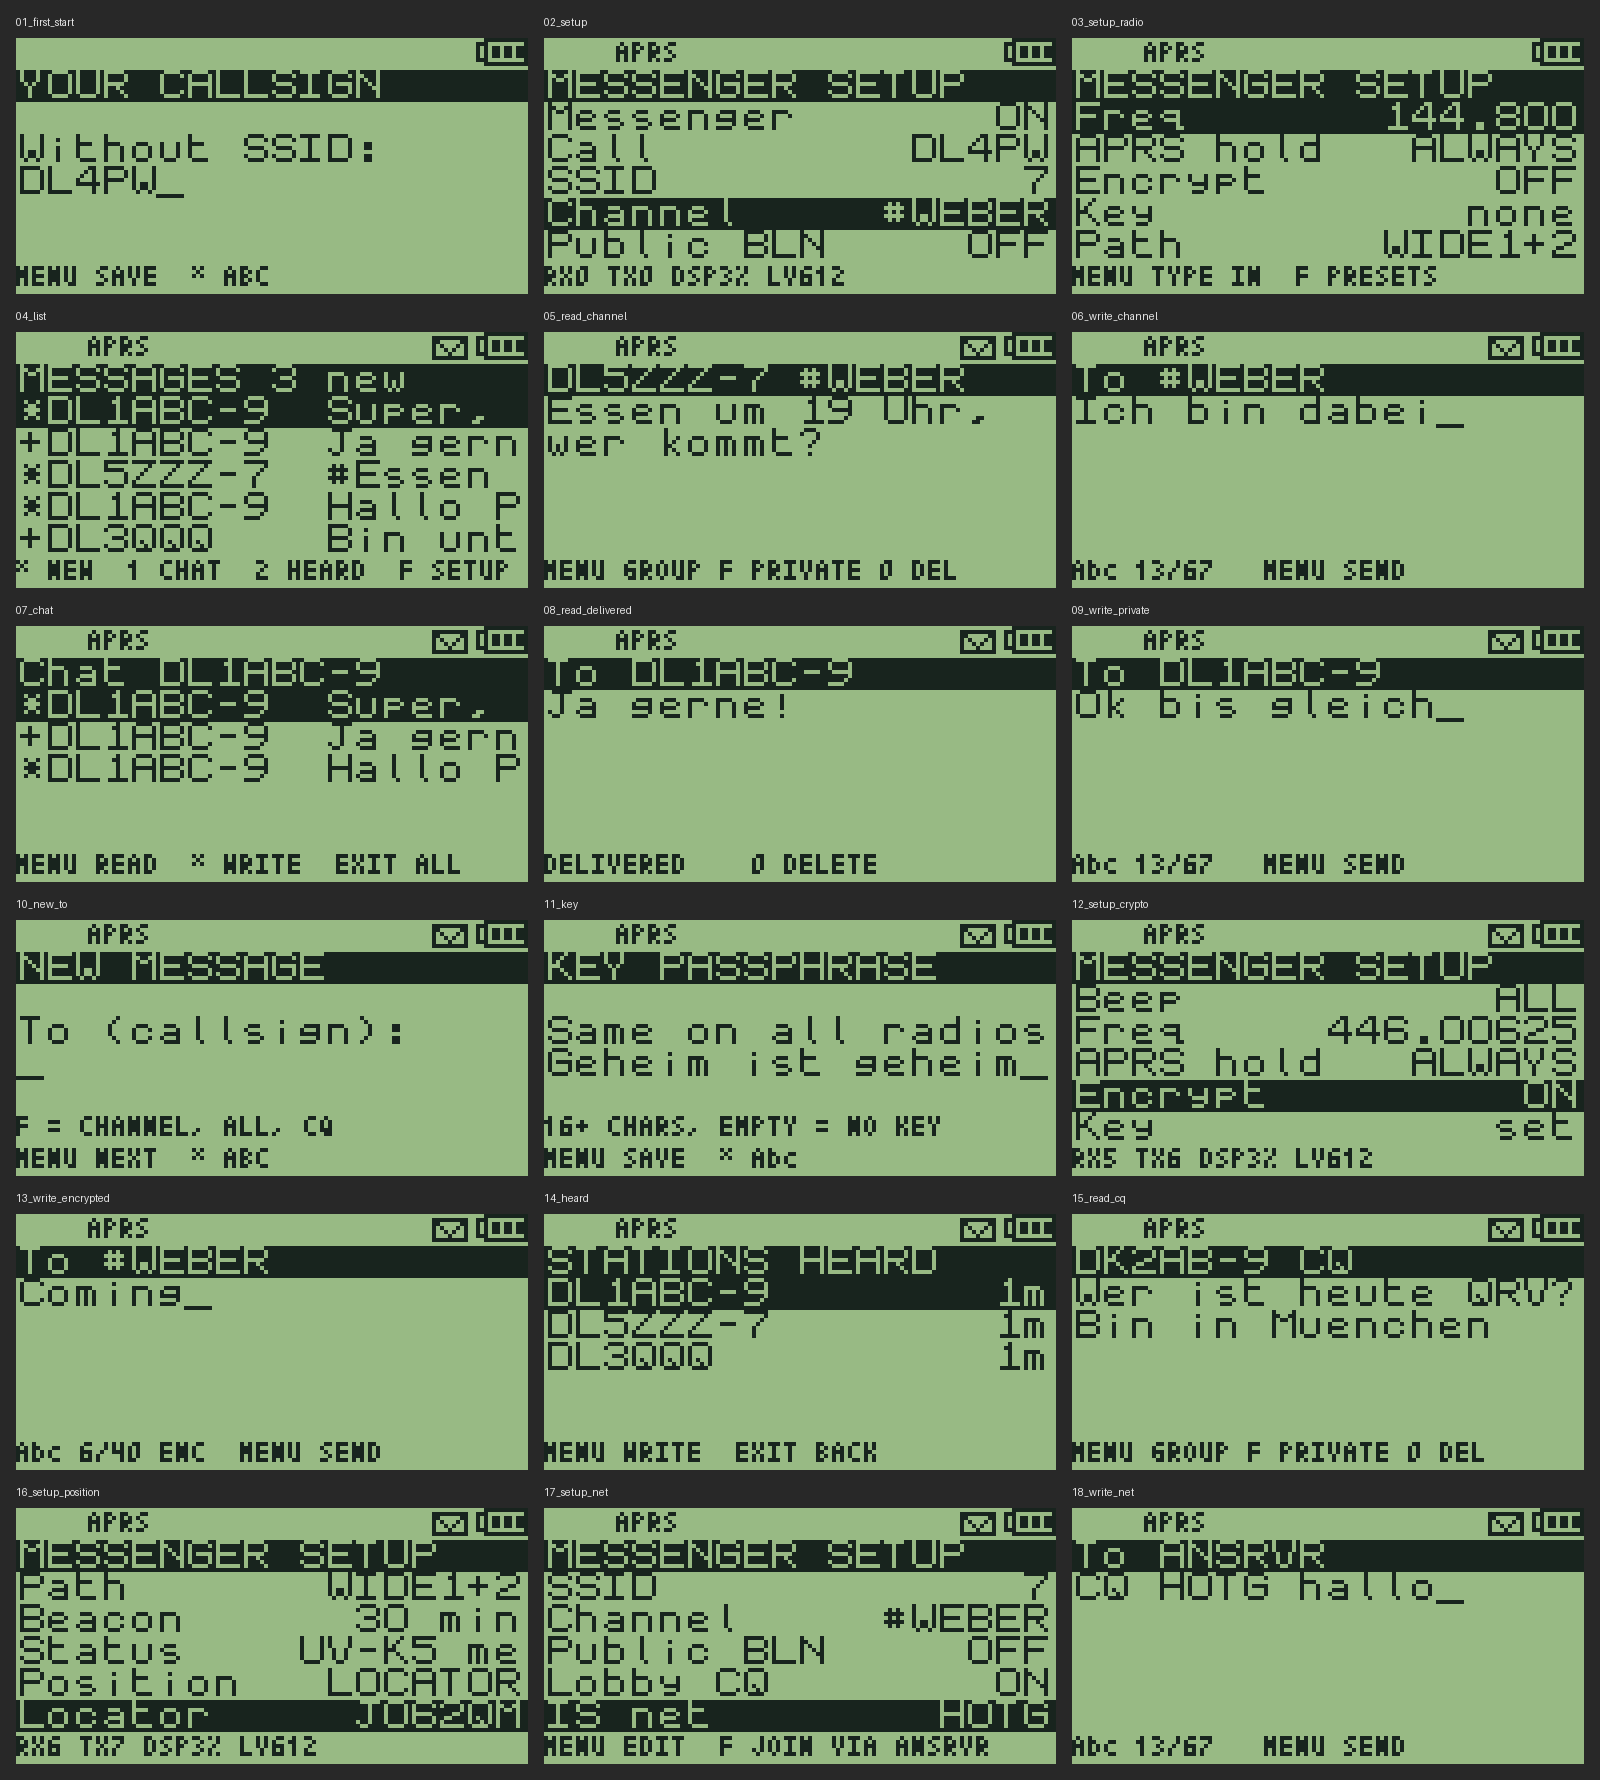
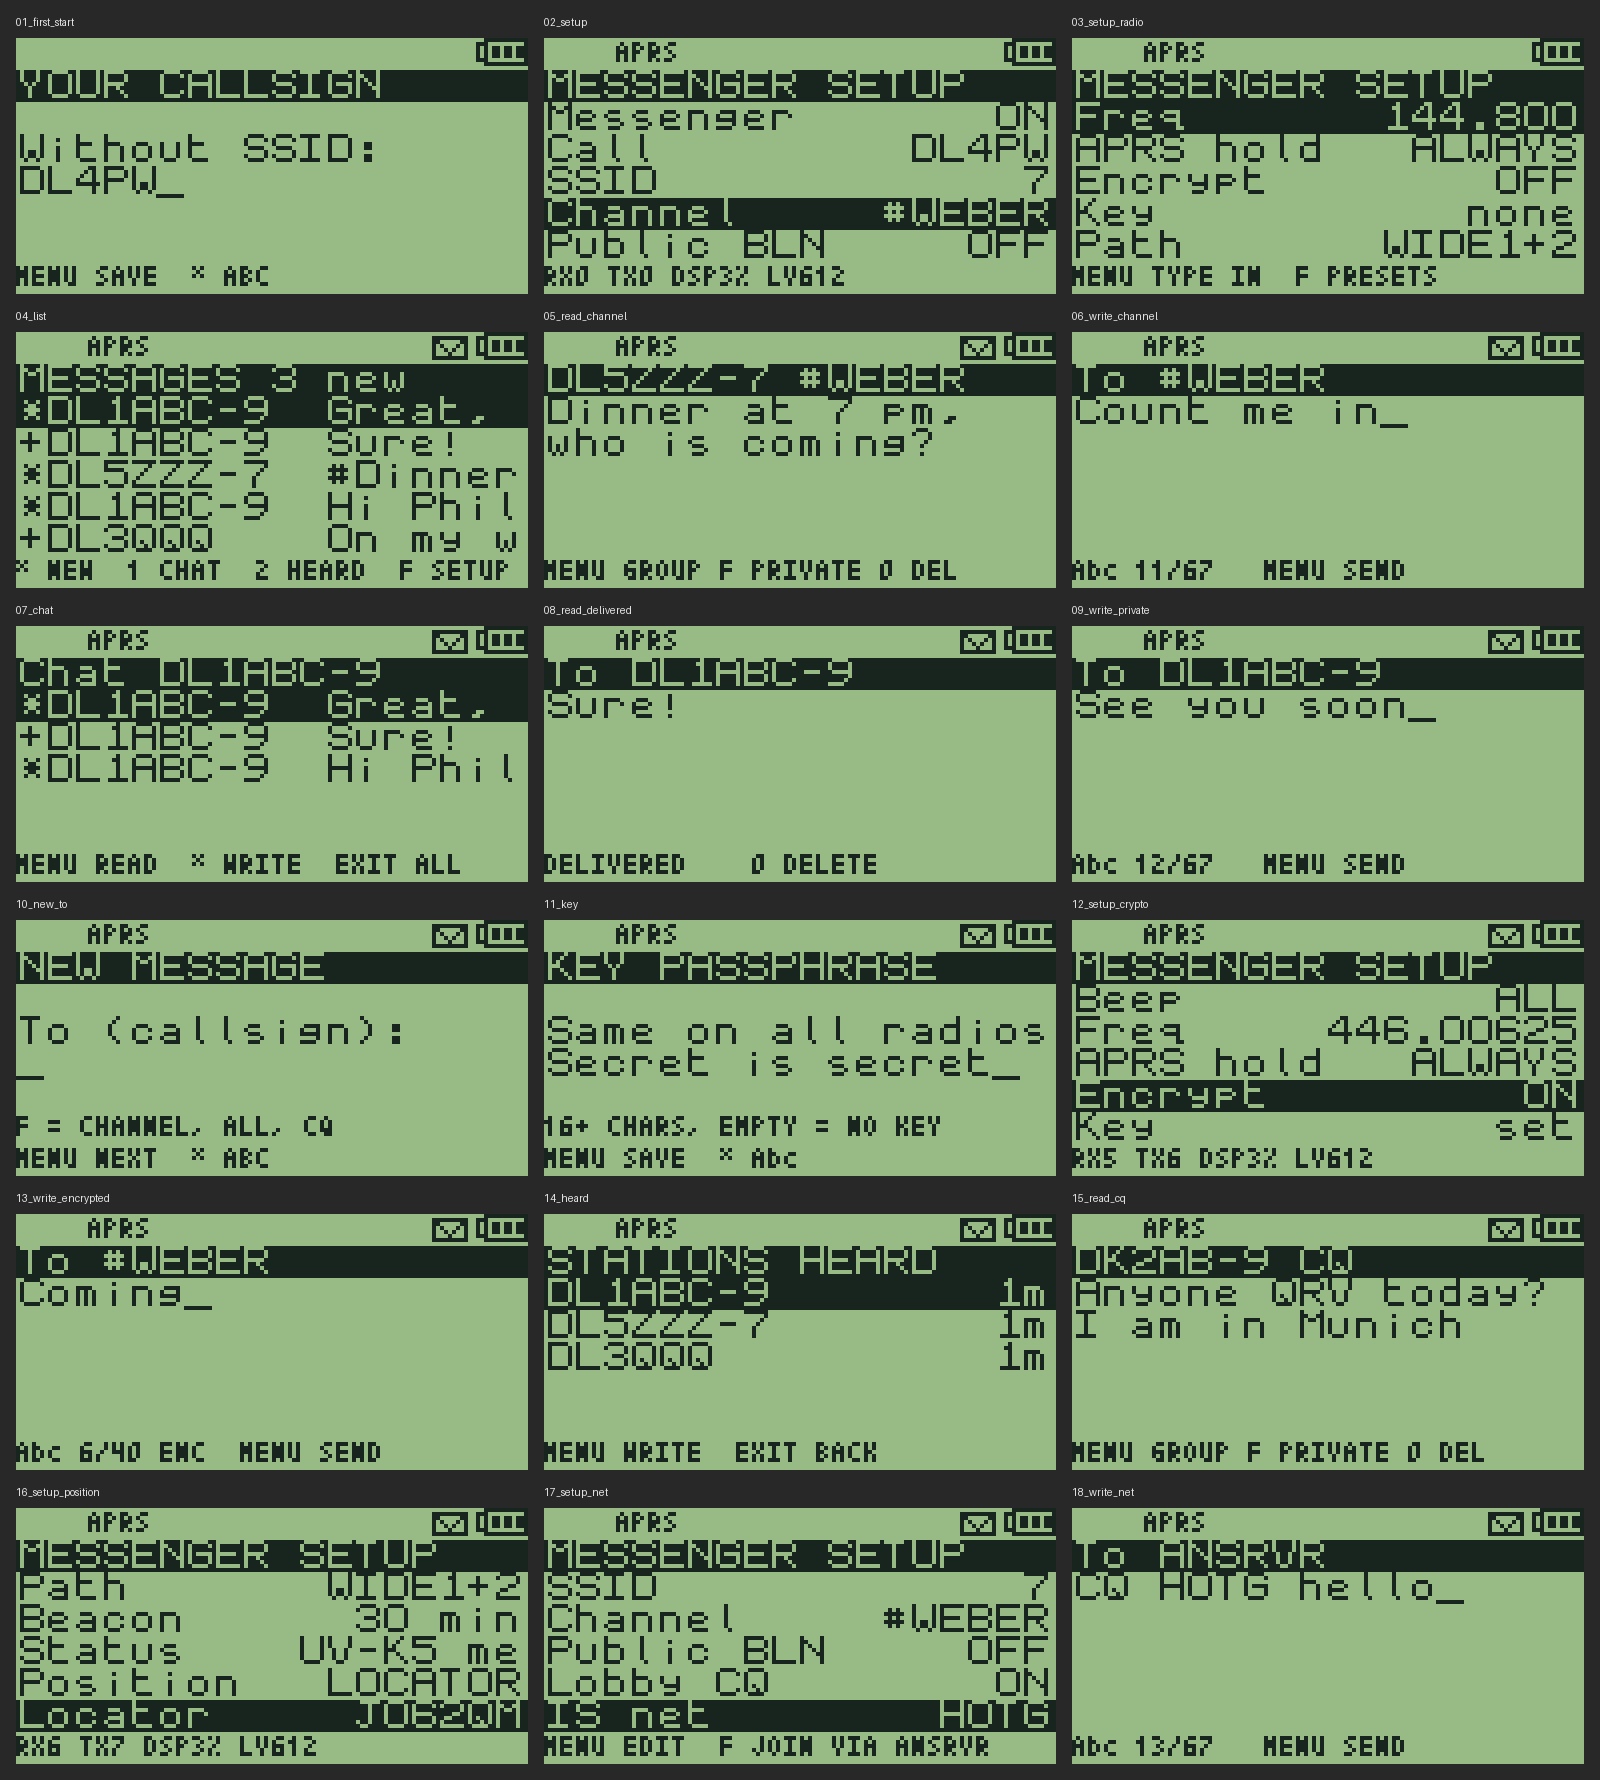
Messenger: second warning before clearing over other data; quick start with screens
- Clear mailbox over another program's data (e.g. F4HWN apps in the
  messenger's flash area) asks a second time and says that data goes too;
  the setup item shows "USED" while the area is not the messenger's.
- Quick start: 21 screen images next to their explanations (setup, keys,
  every example, the warnings), in App/messenger/img/.
- Screen simulator: English sample texts, extra screens for the quick start
  (CQ, warnings), render_lcd.py exports single images.

Claude-Session: https://claude.ai/code/session_01FQn5b2oEocBdb1TXkEB4Ar

diff --git a/App/messenger/test/ui_sim.c b/App/messenger/test/ui_sim.c
@@ -105,7 +105,8 @@ uint32_t msg_port_ms(void) { return now_ms; }
 uint32_t msg_port_random(void) { static uint32_t r = 7; r = r * 1103515245u + 12345u; return r >> 8; }
 bool     msg_port_channel_clear(void) { return true; }
 void     msg_port_notify(msg_notify_t kind) { (void)kind; }
-bool     msg_port_has_aprs_vfo(void) { return true; }
+static bool sim_vfo = true;        /* a VFO on the APRS frequency */
+bool     msg_port_has_aprs_vfo(void) { return sim_vfo; }
 bool     msg_port_aprs_rx_possible(void) { return true; }
 msg_tx_result_t msg_port_transmit(const uint8_t *f, uint16_t l) { (void)f; (void)l; now_ms += 1000; return MSG_TX_OK; }
 
@@ -250,43 +251,46 @@ int main(int argc, char **argv)
     shot("03_setup_radio");
 
     /* history */
-    MSG_Send("DL3QQQ", "Bin unterwegs, melde mich spaeter");
+    MSG_Send("DL3QQQ", "On my way, will call you later");
     run_ms(4000);
     rx("DL3QQQ", ":DL4PW-7  :ack1");
     run_ms(100);
-    rx("DL1ABC-9", ":DL4PW-7  :Hallo Philipp, bist du heute Abend QRV auf 145.500?{12");
+    rx("DL1ABC-9", ":DL4PW-7  :Hi Philipp, are you QRV on 145.500 tonight?{12");
     run_ms(4000);
-    rx("DL5ZZZ-7", ":BLN0WEBER:Essen um 19 Uhr, wer kommt?");
+    rx("DL5ZZZ-7", ":BLN0WEBER:Dinner at 7 pm, who is coming?");
     run_ms(4000);
-    MSG_Send("DL1ABC-9", "Ja gerne!");
+    MSG_Send("DL1ABC-9", "Sure!");
     run_ms(4000);
     rx("DL1ABC-9", ":DL4PW-7  :ack2");
     run_ms(100);
-    rx("DL1ABC-9", ":DL4PW-7  :Super, bis dann{13");
+    rx("DL1ABC-9", ":DL4PW-7  :Great, see you then{13");
     run_ms(4000);
 
     key(KEY_EXIT);
     shot("04_list");
+    sim_vfo = false;
+    shot("extra/no_vfo");              /* the warning line */
+    sim_vfo = true;
 
     key(KEY_DOWN); key(KEY_DOWN);      /* the channel message */
     key(KEY_MENU);
     shot("05_read_channel");
     key(KEY_MENU);                     /* answer in the channel */
-    type("444 222 44 0 22 444 66 0 3 2 22 33 444");
+    type("222 666 88 66 8 0 6 33 0 444 66");    /* Count me in */
     run_ms(1100);
     shot("06_write_channel");
     key(KEY_MENU);
     run_ms(2000);
 
-    key(KEY_DOWN);                     /* "Super, bis dann" */
+    key(KEY_DOWN);                     /* "Great, see you then" */
     key(KEY_1);                        /* chat with DL1ABC-9 */
     shot("07_chat");
-    key(KEY_DOWN);                     /* "Ja gerne!" */
+    key(KEY_DOWN);                     /* "Sure!" */
     key(KEY_MENU);
     shot("08_read_delivered");
     key(KEY_EXIT);
     key(KEY_STAR);                     /* write in the chat: straight to the text */
-    type("666 55 0 22 444 7777 0 4 555 33 444 222 44");   /* Ok bis gleich */
+    type("7777 33 33 0 999 666 88 0 7777 666 666 66");   /* See you soon */
     run_ms(1100);
     shot("09_write_private");
     key_long(KEY_EXIT);
@@ -304,7 +308,7 @@ int main(int argc, char **argv)
         key(KEY_F);                    /* presets ... 446.00625 */
     key(KEY_DOWN); key(KEY_DOWN); key(KEY_DOWN);   /* APRS hold, Encrypt, Key */
     key(KEY_MENU);
-    type("4 33 44 33 444 6 0 444 7777 8 0 4 33 44 33 444 6 ");   /* Geheim ist geheim */
+    type("7777 33 222 777 33 8 0 444 7777 0 7777 33 222 777 33 8 ");   /* Secret is secret */
     shot("11_key");
     key(KEY_MENU);                     /* saved */
     run_ms(2000);
@@ -326,7 +330,7 @@ int main(int argc, char **argv)
     key(KEY_EXIT);
 
     /* the lobby: a CQ call */
-    rx("DK2AB-9", ":CQ       :Wer ist heute QRV? Bin in Muenchen{4");
+    rx("DK2AB-9", ":CQ       :Anyone QRV today? I am in Munich{4");
     run_ms(100);
     key(KEY_MENU);                     /* the newest: the CQ call */
     shot("15_read_cq");
@@ -366,9 +370,31 @@ int main(int argc, char **argv)
     for (int i = 0; i < 4; i++)
         key(KEY_F);
     key(KEY_MENU);
-    type("44 2 555 555 666 ");         /* hallo */
+    type("44 33 555 555 666 ");        /* hello */
     shot("18_write_net");
     key_long(KEY_EXIT);
+
+    /* everyone in reach: F three times gives CQ */
+    key(KEY_STAR);
+    for (int i = 0; i < 3; i++)
+        key(KEY_F);                    /* #WEBER, #ALL, CQ */
+    shot("extra/new_cq");
+    key(KEY_MENU);
+    type("44 444 0 2 555 555 ");       /* Hi all */
+    shot("extra/write_cq");
+    key_long(KEY_EXIT);
+
+    /* another program's data in the messenger's flash area */
+    msg_flash_program(MBX_LOG_BASE + 9u * MSG_FLASH_SECTOR, "FWA1", 4);
+    mbx_init();
+    MSG_OpenScreen();
+    shot("extra/flash_in_use");
+    key(KEY_F);
+    key(KEY_UP);                       /* wraps to Clear mailbox: "USED" */
+    shot("extra/setup_used");
+    key(KEY_MENU);
+    shot("extra/clear_foreign");
+    key(KEY_EXIT);
 
     /* Arrival while the empty mailbox is already open must be selectable. */
     MSG_ClearMailbox();

diff --git a/App/messenger/msg_ui.c b/App/messenger/msg_ui.c
@@ -646,6 +646,7 @@ static void setup_value(uint8_t item, char *v)
     case S_LAT:     *aprs_put_coord(v, c->lat, 2, 'N', 'S') = '\0'; break;
     case S_LON:     *aprs_put_coord(v, c->lon, 3, 'E', 'W') = '\0'; break;
     case S_SYMBOL:  strcpy(v, MSG_SymbolName(c->symbol)); break;
+    case S_CLEAR:   if (!MSG_FlashOk()) strcpy(v, "USED"); break;   /* 13 + 1 + 4 = a row */
     case S_BEEP:    strcpy(v, BEEP_TXT[c->beep]); break;
     case S_FREQ:    freq_text(c->freq, v); break;
     case S_ENCRYPT: strcpy(v, !c->encrypt ? "OFF" : MSG_HamBand(c->freq) ? "HAM: OFF" : "ON"); break;
@@ -996,8 +997,16 @@ static void draw_heard(void)
 
 static void draw_confirm(void)
 {
-    title(gConfirm == CONFIRM_CLEAR ? "CLEAR MAILBOX" : "DELETE");
-    print(gConfirm == CONFIRM_CLEAR ? "Delete all" : "Delete this", 0, 2);
+    const bool clear = gConfirm == CONFIRM_CLEAR;
+    title(clear ? "CLEAR MAILBOX" : "DELETE");
+    if (clear && !MSG_FlashOk()) {     /* clearing takes another program's data */
+        print("The area holds", 0, 2);
+        print("other data, e.g.", 0, 3);
+        print("apps. Erase it?", 0, 4);
+        tiny("MENU ERASE   EXIT KEEP", 0, 6);
+        return;
+    }
+    print(clear ? "Delete all" : "Delete this", 0, 2);
     print("messages?", 0, 3);
     tiny("MENU YES   EXIT NO", 0, 6);
 }

diff --git a/App/messenger/test/render_lcd.py b/App/messenger/test/render_lcd.py
@@ -2,7 +2,9 @@
 """Turns the ui_sim dumps (128x64, status line + 7 lines, 8 vertical pixels per
 byte, bit 0 on top) into PNG files that look like the radio's LCD.
 
-  render_lcd.py DIR [SCALE]     writes DIR/NN_name.png and DIR/overview.png
+  render_lcd.py DIR [SCALE] [COPY_DIR]
+      writes DIR/NN_name.png and DIR/overview.png; with COPY_DIR also
+      COPY_DIR/name.png (the number dropped), for the quick start
 """
 import glob, os, sys
 
@@ -27,12 +29,18 @@ def load(path):
 def main():
     d = sys.argv[1]
     scale = int(sys.argv[2]) if len(sys.argv) > 2 else 4
+    copy = sys.argv[3] if len(sys.argv) > 3 else None
     shots = []
     for path in sorted(glob.glob(os.path.join(d, "*.lcd"))):
         img = load(path).resize((128 * scale, 64 * scale), Image.NEAREST)
         out = path[:-4] + ".png"
         img.save(out)
-        shots.append((os.path.basename(path)[:-4], img))
+        name = os.path.basename(path)[:-4]
+        shots.append((name, img))
+        if copy:
+            if name[:2].isdigit() and name[2:3] == "_":
+                name = name[3:]
+            img.save(os.path.join(copy, name + ".png"))
     if not shots:
         return
     cols = 3

diff --git a/App/messenger/QUICKSTART.md b/App/messenger/QUICKSTART.md
@@ -55,6 +55,11 @@ mode; a frequency is typed on the keypad.
    = ON.
 3. Optional: *Channel*, *Locator*, *IS net* (below).
 
+<p>
+  <img src="img/first_start.png" width="384" alt="First start: the callsign prompt">
+  <img src="img/setup.png" width="384" alt="The setup with the messenger switched on">
+</p>
+
 ### Settings (F in the mailbox)
 
 | Item | What it does | Recommended |
@@ -76,10 +81,15 @@ mode; a frequency is typed on the keypad.
 | Locator / Lat / Lon | e.g. `JO62QM`; or `485090` = 48°50.90' (F switches N/S, E/W) | your locator |
 | Symbol | map symbol: PERSON, HOUSE, CAR, BIKE, BOAT, PORTABLE | PERSON |
 | APRS audio | ON: hear the packets on the speaker | OFF |
-| Clear mailbox | erase all messages (asks first) | |
+| Clear mailbox | erase all messages (asks first); `USED`: other data in the area, erased too | |
 
 The bottom line shows the bench figures: frames heard (RX) and sent (TX),
-decoder load (DSP), audio level (LV).
+decoder load (DSP), audio level (LV); on some items it shows what MENU and F
+do instead.
+
+<p>
+  <img src="img/setup_radio.png" width="384" alt="Setup: Freq 144.800, APRS hold ALWAYS, Encrypt OFF, Path WIDE1+2">
+</p>
 
 ## 5. Keys
 
@@ -89,6 +99,13 @@ decoder load (DSP), audio level (LV).
 | Reading | UP/DOWN scroll · MENU reply (own message without ack: send again) · F private reply to a group message · `0` delete |
 | Writing | `0`-`9` multi-tap (`2` = a b c 2) · `*` Abc/abc/ABC/123 · UP/DOWN cursor · EXIT delete, held: cancel · MENU next / send |
 | Recipient | a callsign, or **F**: your channel → `#ALL` (public bulletin) → `CQ` (lobby) → `ANSRVR` (IS net, text starts with "CQ group ") |
+
+<p>
+  <img src="img/list.png" width="384" alt="The mailbox with new, delivered and channel messages">
+  <img src="img/read_channel.png" width="384" alt="Reading a channel message">
+  <img src="img/new_to.png" width="384" alt="A new message: the recipient">
+  <img src="img/write_private.png" width="384" alt="Writing a private message">
+</p>
 
 ## 6. Examples
 
@@ -104,6 +121,10 @@ decoder load (DSP), audio level (LV).
 Shorter: `2` (stations heard) → select → MENU. To answer a message: open it →
 MENU.
 
+<p>
+  <img src="img/read_delivered.png" width="384" alt="An own message, delivered">
+</p>
+
 **Write to everyone in reach** (no confirmation)
 
 - `*` → **F** until `CQ` → MENU → text → MENU. It goes out twice, a minute
@@ -111,11 +132,20 @@ MENU.
   (Yaesu, Kenwood, this messenger) reads it. Answers come privately or as CQ.
 - `#ALL` instead of `CQ` sends a public bulletin, for announcements.
 
+<p>
+  <img src="img/new_cq.png" width="384" alt="The recipient field after three times F: CQ">
+  <img src="img/write_cq.png" width="384" alt="Writing to CQ">
+</p>
+
 **Write to your group**
 
 - Agree on a channel name (e.g. `WEBER`) and set it as *Channel* on every
   radio. Then `*` → **F** (`#WEBER`) → MENU → text → MENU. Every radio with
   that channel shows it with a beep; no confirmation, sent twice.
+
+<p>
+  <img src="img/write_channel.png" width="384" alt="Writing to the channel #WEBER">
+</p>
 
 **Join the worldwide APRS chat** (e.g. #APRSThursday)
 
@@ -124,20 +154,38 @@ MENU.
   ANSRVR. Needs an iGate that hears you (beacon on); after about 12 hours
   without activity, post or join again.
 
+<p>
+  <img src="img/setup_net.png" width="384" alt="Setup: IS net HOTG, F joins">
+  <img src="img/write_net.png" width="384" alt="A message to the group through ANSRVR">
+</p>
+
 **Show up on the map**
 
 - *Locator* (e.g. `JO62QM`) and *Beacon* 30 min: aprs.fi shows your position
   with the *Status* text.
 
+<p>
+  <img src="img/setup_position.png" width="384" alt="Setup: position from the locator JO62QM">
+</p>
+
 **See who is around**
 
 - `2` in the mailbox: the stations heard, newest first, with the time since.
+
+<p>
+  <img src="img/heard.png" width="384" alt="The stations heard">
+</p>
 
 **Encrypted group chat** (only where encryption is allowed)
 
 - On every radio: the same *Freq* off the amateur bands, a VFO on it, the same
   *Key*, *Encrypt* ON. Then write to the channel as above; 40 characters at
   most.
+
+<p>
+  <img src="img/setup_crypto.png" width="384" alt="Setup: encryption on a licence-free frequency">
+  <img src="img/write_encrypted.png" width="384" alt="Writing an encrypted channel message">
+</p>
 
 ## 7. What the display tells you
 
@@ -153,7 +201,14 @@ MENU.
 | `SELECT APRS VFO OR DUAL WATCH` | dual watch is off (or the FM radio is on) and VFO B is not the main VFO |
 | `TX BLOCKED: CHECK FM/SIMPLEX/LOCK` | Mode, TxODir or TX lock of VFO B |
 | `TX BLOCKED: BATTERY` | charge |
-| `FLASH IN USE: CLEAR MAILBOX` | another program's data in the messenger's flash area; *Clear mailbox* takes it over |
+| `FLASH IN USE: CLEAR MAILBOX` | another program's data (e.g. F4HWN apps) in the messenger's flash area; the setup shows *Clear mailbox* `USED`. Clearing asks again and erases that data |
+
+<p>
+  <img src="img/no_vfo.png" width="384" alt="The warning line: no VFO on the APRS frequency">
+  <img src="img/flash_in_use.png" width="384" alt="The warning line: flash area in use">
+  <img src="img/setup_used.png" width="384" alt="Setup: Clear mailbox USED">
+  <img src="img/clear_foreign.png" width="384" alt="Clear mailbox over other data: the second warning">
+</p>
 
 ## 8. Good to know
 

diff --git a/App/messenger/README.md b/App/messenger/README.md
@@ -287,7 +287,7 @@ flash.
 | Lat / Lon | fixed position: MENU types `DDMMmm` / `DDDMMmm` (`485090` = 48 50.90), F switches N/S or E/W |
 | Symbol | PERSON, HOUSE, CAR, BIKE, BOAT, PORTABLE |
 | APRS audio | ON: bursts on the APRS frequency are heard as usual |
-| Clear mailbox | erases all messages (asks first) |
+| Clear mailbox | erases all messages (asks first); `USED`: another program's data is in the area, clearing erases it too (asks a second time) |
 
 Typing a locator sets *Position* to LOCATOR, typing Lat or Lon sets it to
 FIXED.
@@ -343,8 +343,10 @@ The settings and the mailbox use 64 KiB of the external flash at
 (v7 keeps it as a reserve for overlay-app slots 92-99 and puts its firmware
 assets above it). Before writing, the messenger checks that every sector holds
 only its own records or erased flash. If another program's data is found
-there, nothing is written and the mailbox shows *FLASH IN USE*; *Clear
-mailbox* then takes the region over (that other data is lost).
+there, nothing is written, the mailbox shows *FLASH IN USE* and the setup
+item *Clear mailbox* shows `USED`. Clearing then asks a second time ("The area
+holds other data, e.g. apps. Erase it?") before it takes the region over; that
+other data is lost.
 
 F4HWN keeps this range for overlay-app slots 92-99 and confirmed (2026-11-01)
 that a fork's use of it is unofficial: a later F4HWN version or UV Studio may

diff --git a/CLAUDE.md b/CLAUDE.md
@@ -13,8 +13,11 @@ only: no translations (the radio UI is English only for lack of flash).
   manual with examples), `DESIGN.md` (as built), `TODO.md` (open points, bench
   topics, the F4HWN v7 plan). Keep them current when settings or keys change.
 - Host tests: `App/messenger/test/run.sh [OUTDIR]` (gcc, python3). Screens:
-  `test/render_lcd.py OUTDIR/screens`; `App/messenger/screens.png` is its
-  `overview.png`.
+  `test/render_lcd.py OUTDIR/screens 4` gives `overview.png` =
+  `App/messenger/screens.png`; `render_lcd.py OUTDIR/screens 3 DIR` and
+  `render_lcd.py OUTDIR/screens/extra 3 DIR` give the quick-start images
+  (`App/messenger/img/`, only the ones QUICKSTART.md uses). Sample texts in
+  the simulator are English.
 - Firmware: `cmake --preset Messenger && cmake --build --preset Messenger`.
   Flash is 98.2 % full (~1.2 KB left): check the size after every change; the
   multiboot RAM stub needs 888 B more than the FLASH figure the linker prints,

diff --git a/App/messenger/DESIGN.md b/App/messenger/DESIGN.md
@@ -208,7 +208,8 @@ range, and forks follow the map and migrate on their own.
 start with 0xFF (erased or cut by a power loss) or with the record marker
 (0xA5 mailbox, 0xC7 settings). Otherwise the messenger writes, erases and
 flags nothing in that part (settings or mailbox) and the mailbox shows *FLASH
-IN USE*; *Clear mailbox* is the user's decision to take the region over. So
+IN USE*; *Clear mailbox* (`USED` in the setup) is the user's decision to take
+the region over, after a second warning that the other data goes too. So
 the messenger never destroys another program's data (a future app slot, a v7
 asset pack), and losing its own data to one is detected by the CRCs.
 Power-loss cases, a region full of garbage and foreign sectors are in
